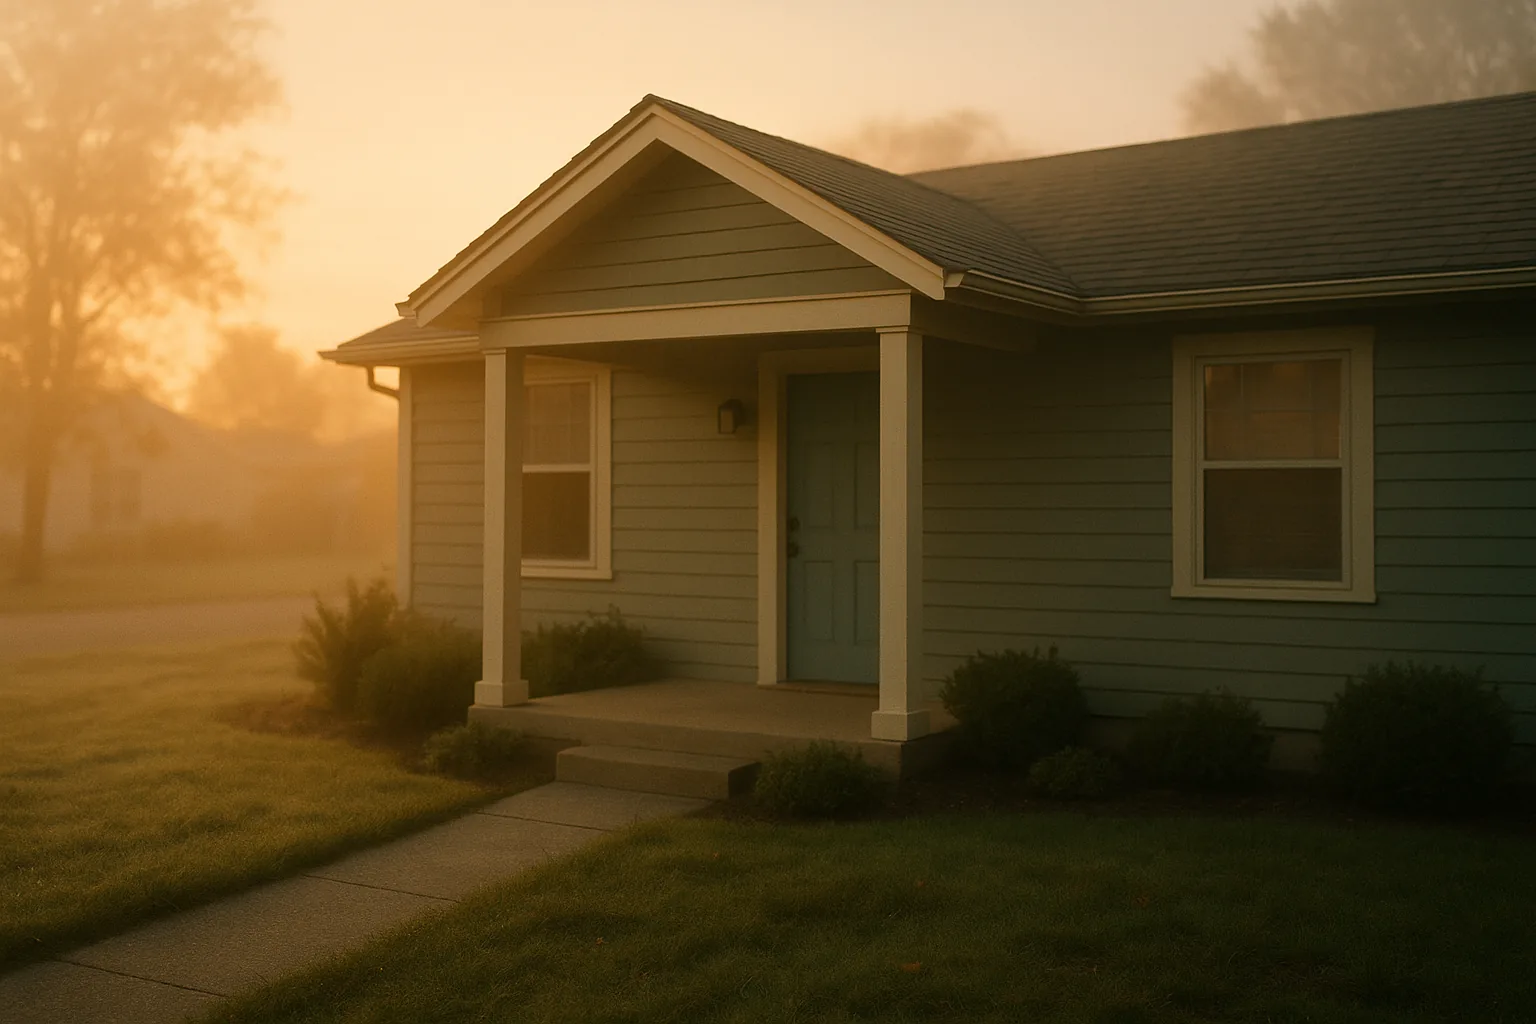
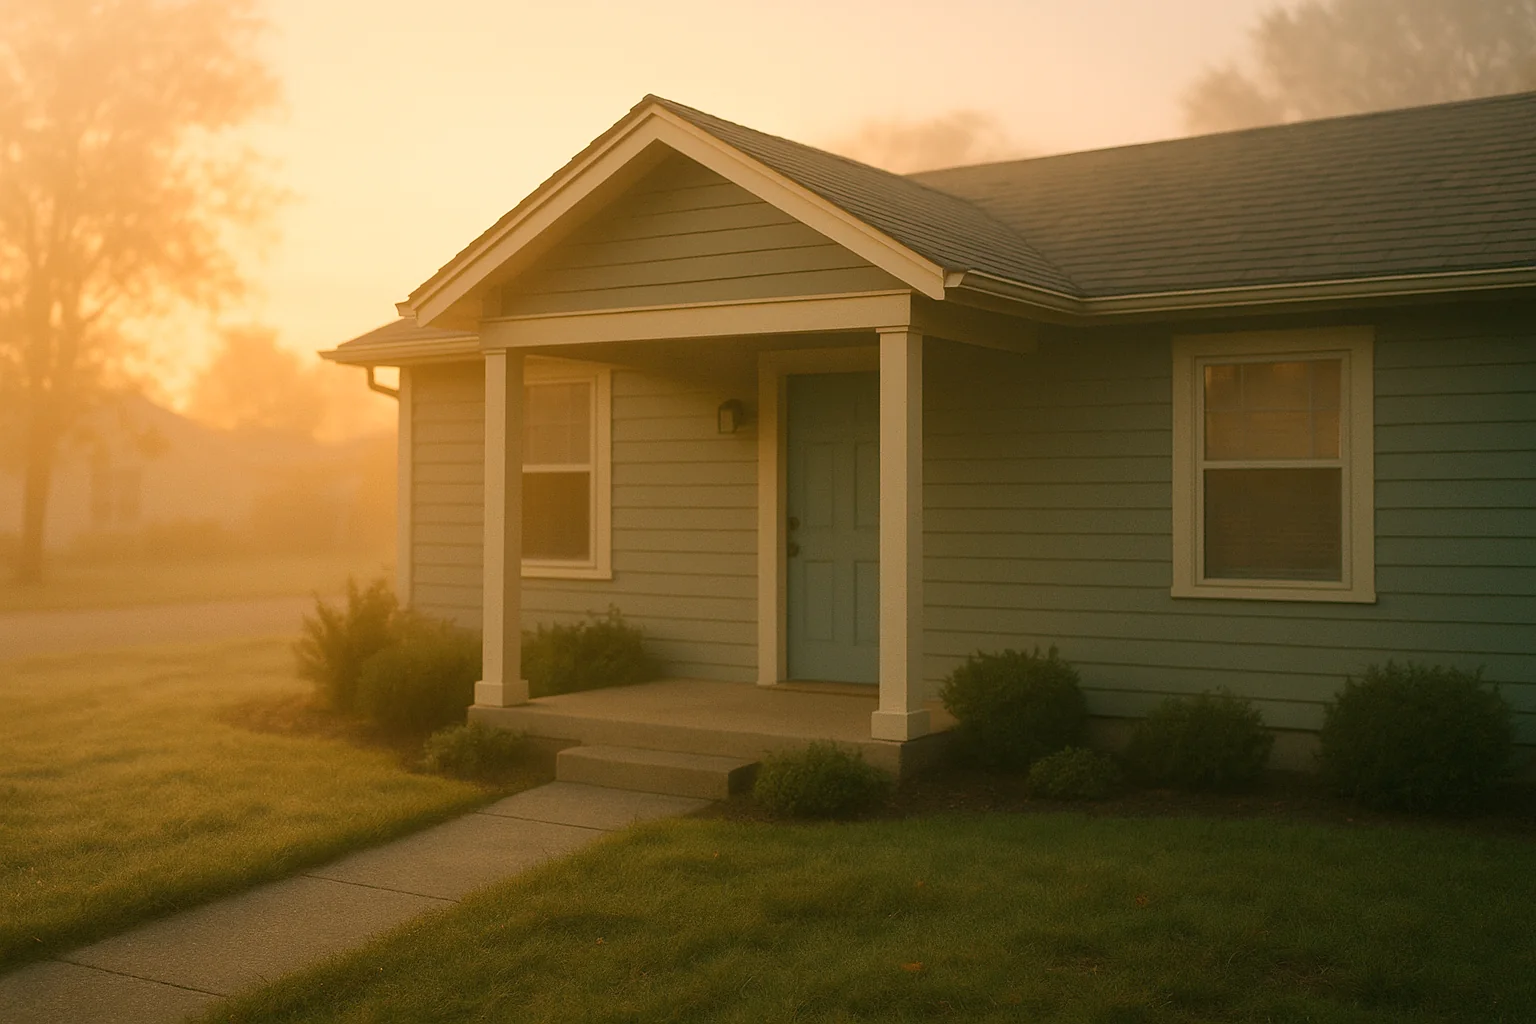
Single theme, warmer hero, verified contrast
Removed the light/dark toggle and all theming machinery. One design, the
original dark photographic hero over cream sections.

Hero lifted so it reads warm rather than gloomy: gamma lift on the source
photograph to open the shadows, softened scrim, stronger sunrise glow.

Legibility held while brightening, via a localized radial scrim behind the
copy and a backing chip on the badge. Measured against the rendered page:
  H1            4.69:1  (needs 3.0 large)
  Sub paragraph 6.69:1  (needs 4.5)
  Badge         6.75:1  (needs 4.5)

diff --git a/src/assets/site.css b/src/assets/site.css
@@ -36,9 +36,9 @@
   --ease: cubic-bezier(.22, 1, .36, 1);
 }
 
-/* ---- LIGHT (default) ---- */
-:root, [data-theme="light"] {
-  color-scheme: light;
+/* ---- Surface + text tokens ---- */
+:root {
+  color-scheme: only light;
 
   --bg:        #FAF6EA;   /* base section */
   --bg-2:      #FFFFFF;   /* alternate section */
@@ -56,28 +56,6 @@
   --eyebrow-c:  var(--sage);
   --shadow:     0 28px 56px -26px rgba(14,31,33,.30);
   --shadow-fig: 0 40px 80px -32px rgba(14,31,33,.42);
-}
-
-/* ---- DARK ---- */
-[data-theme="dark"] {
-  color-scheme: dark;
-
-  --bg:        #0E1F21;
-  --bg-2:      #12292B;
-  --bg-inv:    #0A1719;
-  --bg-inv-2:  #10262A;
-  --surface:   rgba(250,246,234,.05);
-  --surface-2: rgba(250,246,234,.05);
-
-  --tx:        rgba(250,246,234,.78);
-  --tx-2:      rgba(250,246,234,.55);
-  --tx-head:   #FAF6EA;
-  --line:      rgba(250,246,234,.13);
-
-  --accent:     var(--gold);
-  --eyebrow-c:  var(--sage-lt);
-  --shadow:     0 28px 56px -26px rgba(0,0,0,.55);
-  --shadow-fig: 0 40px 80px -32px rgba(0,0,0,.65);
 }
 
 /* Inverse bands: same treatment in both themes, so they simply re-declare
@@ -183,22 +161,6 @@ a { color: inherit; text-decoration: none; }
   box-shadow: 0 10px 30px -8px rgba(232, 177, 95, .55);
 }
 
-/* Theme toggle */
-.theme-toggle {
-  flex: 0 0 auto;
-  width: 38px; height: 38px; border-radius: 50%;
-  display: grid; place-items: center; cursor: pointer;
-  background: rgba(250,246,234,.08);
-  border: 1px solid rgba(250,246,234,.2);
-  color: rgba(250,246,234,.85);
-  transition: background .25s var(--ease), border-color .25s var(--ease), transform .25s var(--ease), color .25s var(--ease);
-}
-.theme-toggle:hover { background: rgba(250,246,234,.16); border-color: var(--gold); color: var(--gold); transform: translateY(-2px); }
-.theme-toggle svg { width: 18px; height: 18px; }
-.theme-toggle .i-sun { display: none; }
-.theme-toggle .i-moon { display: block; }
-[data-theme="dark"] .theme-toggle .i-sun { display: block; }
-[data-theme="dark"] .theme-toggle .i-moon { display: none; }
 
 .nav-toggle { display: none; background: none; border: 0; cursor: pointer; padding: 8px; }
 .nav-toggle span { display: block; width: 24px; height: 2px; background: var(--bone); margin: 5px 0; transition: .3s var(--ease); }
@@ -217,31 +179,40 @@ a { color: inherit; text-decoration: none; }
 .hero-photo {
   position: absolute; inset: 0; z-index: -3;
   background: url('/assets/images/photos/hero-home.webp') center 40% / cover no-repeat;
-  opacity: .9; transform: scale(1.06);
+  opacity: 1; transform: scale(1.06);
   animation: heroDrift 26s ease-in-out infinite alternate;
 }
 @keyframes heroDrift { from { transform: scale(1.06) translate3d(0,0,0); } to { transform: scale(1.13) translate3d(-1.5%, -1%, 0); } }
 .hero-scrim {
   position: absolute; inset: 0; z-index: -2;
   background:
-    linear-gradient(180deg, rgba(14,31,33,.86) 0%, rgba(14,31,33,.30) 24%, rgba(14,31,33,.14) 56%, rgba(14,31,33,.70) 88%, var(--ink) 100%),
-    linear-gradient(100deg, rgba(14,31,33,.94) 0%, rgba(14,31,33,.80) 28%, rgba(14,31,33,.30) 58%, rgba(14,31,33,.02) 82%, rgba(14,31,33,0) 100%);
+    linear-gradient(180deg, rgba(14,31,33,.74) 0%, rgba(14,31,33,.18) 26%, rgba(14,31,33,.06) 55%, rgba(14,31,33,.55) 86%, var(--ink) 100%),
+    linear-gradient(100deg, rgba(14,31,33,.92) 0%, rgba(14,31,33,.78) 30%, rgba(14,31,33,.34) 58%, rgba(14,31,33,.04) 80%, rgba(14,31,33,0) 92%);
 }
 .hero-sun {
   position: absolute; z-index: -1; left: 50%; bottom: 4%;
   width: min(1500px, 145vw); aspect-ratio: 1; transform: translateX(-50%);
   background: radial-gradient(circle at 50% 78%,
-    rgba(247,206,140,.34) 0%, rgba(232,177,95,.22) 18%,
-    rgba(232,177,95,.08) 34%, transparent 58%);
+    rgba(247,206,140,.50) 0%, rgba(232,177,95,.32) 18%,
+    rgba(232,177,95,.13) 36%, transparent 62%);
   animation: sunBreathe 11s ease-in-out infinite; pointer-events: none;
 }
 @keyframes sunBreathe { 0%,100% { opacity: .82; transform: translateX(-50%) scale(1); } 50% { opacity: 1; transform: translateX(-50%) scale(1.05); } }
 
 .hero-content { position: relative; z-index: 2; max-width: 860px; }
+/* Localized scrim behind the copy. Keeps text at AA without dimming the photo. */
+.hero-content::before {
+  content: ''; position: absolute; z-index: -1;
+  inset: -70px -140px -60px -120px;
+  background: radial-gradient(ellipse 62% 60% at 32% 50%,
+    rgba(14,31,33,.62) 0%, rgba(14,31,33,.42) 48%, rgba(14,31,33,0) 76%);
+  pointer-events: none;
+}
 .badge {
   display: inline-flex; align-items: center; gap: 10px;
-  background: rgba(232,177,95,.11); border: 1px solid rgba(232,177,95,.34);
-  color: var(--gold); font-size: 11.5px; font-weight: 600;
+  background: rgba(14,31,33,.58); border: 1px solid rgba(232,177,95,.42);
+  backdrop-filter: blur(6px); -webkit-backdrop-filter: blur(6px);
+  color: var(--gold-hot); font-size: 11.5px; font-weight: 600;
   letter-spacing: .16em; text-transform: uppercase;
   padding: 8px 18px; border-radius: 100px; margin-bottom: 34px;
 }
@@ -260,7 +231,7 @@ a { color: inherit; text-decoration: none; }
   background: linear-gradient(96deg, var(--gold-hot), var(--gold) 45%, var(--sage-lt));
   -webkit-background-clip: text; background-clip: text; color: transparent;
 }
-.hero-sub { font-size: clamp(17px, 1.9vw, 20.5px); color: rgba(250,246,234,.74); max-width: 620px; line-height: 1.72; margin-bottom: 44px; }
+.hero-sub { font-size: clamp(17px, 1.9vw, 20.5px); color: rgba(250,246,234,.92); max-width: 620px; line-height: 1.72; margin-bottom: 44px; }
 .hero-actions { display: flex; gap: 16px; flex-wrap: wrap; align-items: center; }
 
 /* Animated water. Uses a mask rather than a colored background image, so the
@@ -533,7 +504,7 @@ a { color: inherit; text-decoration: none; }
   .nav-inner { padding: 14px 22px; }
   .nav-logo img { height: 44px; }
   .nav-toggle { display: block; }
-  .nav-right { gap: 12px; }
+  .nav-right { gap: 14px; }
   .nav-links {
     position: fixed; inset: 74px 0 auto 0; flex-direction: column; align-items: stretch;
     gap: 0; background: rgba(14,31,33,.97); backdrop-filter: blur(16px);
@@ -551,66 +522,4 @@ a { color: inherit; text-decoration: none; }
   .footer-grid { grid-template-columns: 1fr; gap: 34px; }
   .prose { padding: 76px 22px 90px; }
   .page-head { padding: 150px 0 74px; }
-}
-
-
-/* ==========================================================================
-   LIGHT THEME OVERRIDES
-   In light mode the hero becomes genuinely light: the golden-hour photograph
-   carries the section and the scrim is cream rather than ink, so the house
-   reads bright instead of being crushed under a dark wash.
-   ========================================================================== */
-.logo-on-light { display: none; }
-[data-theme="light"] .logo-on-dark  { display: none; }
-[data-theme="light"] .logo-on-light { display: block; }
-
-[data-theme="light"] .hero { background: var(--bg); }
-[data-theme="light"] .hero-photo { opacity: 1; }
-[data-theme="light"] .hero-scrim {
-  background:
-    linear-gradient(180deg, rgba(250,246,234,.90) 0%, rgba(250,246,234,.34) 24%, rgba(250,246,234,.20) 54%, rgba(250,246,234,.74) 86%, var(--bg) 100%),
-    linear-gradient(100deg, rgba(250,246,234,.96) 0%, rgba(250,246,234,.86) 28%, rgba(250,246,234,.40) 58%, rgba(250,246,234,.06) 84%, rgba(250,246,234,0) 100%);
-}
-[data-theme="light"] .hero-sun {
-  background: radial-gradient(circle at 50% 78%,
-    rgba(247,206,140,.42) 0%, rgba(232,177,95,.24) 20%,
-    rgba(232,177,95,.10) 36%, transparent 60%);
-  mix-blend-mode: multiply;
-}
-[data-theme="light"] .hero h1 { color: var(--teal); }
-[data-theme="light"] .hero-sub { color: #46605F; }
-[data-theme="light"] .hero h1 em {
-  background: linear-gradient(96deg, var(--gold-deep), #C8913C 45%, #7C8A3F);
-  -webkit-background-clip: text; background-clip: text; color: transparent;
-}
-[data-theme="light"] .badge {
-  background: rgba(181,130,47,.10); border-color: rgba(181,130,47,.40); color: var(--gold-deep);
-}
-[data-theme="light"] .badge::before { background: var(--gold-deep); box-shadow: 0 0 0 0 rgba(181,130,47,.6); }
-[data-theme="light"] .btn-glass {
-  background: rgba(255,255,255,.62); color: var(--teal);
-  border-color: rgba(70,104,106,.26);
-}
-[data-theme="light"] .btn-glass:hover { background: rgba(255,255,255,.9); border-color: var(--teal); }
-
-/* Nav follows the theme so it never floats dark over a bright hero */
-[data-theme="light"] .site-nav.stuck {
-  background: rgba(250,246,234,.90);
-  border-bottom-color: var(--line);
-}
-[data-theme="light"] .nav-links a { color: #40595B; }
-[data-theme="light"] .nav-links a:hover { color: var(--teal); }
-[data-theme="light"] .theme-toggle {
-  background: rgba(70,104,106,.08); border-color: rgba(70,104,106,.24); color: var(--teal);
-}
-[data-theme="light"] .theme-toggle:hover { background: rgba(70,104,106,.14); border-color: var(--gold-deep); color: var(--gold-deep); }
-[data-theme="light"] .nav-toggle span { background: var(--teal); }
-[data-theme="light"] .figure-tag { background: rgba(255,255,255,.95); }
-
-@media (max-width: 820px) {
-  [data-theme="light"] .nav-links {
-    background: rgba(250,246,234,.98);
-    border-bottom-color: var(--line);
-  }
-  [data-theme="light"] .nav-links a { border-bottom-color: var(--line); }
 }

diff --git a/src/assets/site.js b/src/assets/site.js
@@ -6,36 +6,6 @@
 
   var reduced = window.matchMedia('(prefers-reduced-motion: reduce)').matches;
 
-  /* ---- Theme toggle ---- */
-  var root = document.documentElement;
-  var themeBtn = document.getElementById('theme-toggle');
-  var meta = document.querySelector('meta[name="theme-color"]');
-
-  function applyTheme(t) {
-    root.setAttribute('data-theme', t);
-    if (meta) meta.setAttribute('content', t === 'dark' ? '#0E1F21' : '#FAF6EA');
-    if (themeBtn) themeBtn.setAttribute('aria-pressed', t === 'dark' ? 'true' : 'false');
-  }
-  applyTheme(root.getAttribute('data-theme') || 'light');
-
-  if (themeBtn) {
-    themeBtn.addEventListener('click', function () {
-      var next = root.getAttribute('data-theme') === 'dark' ? 'light' : 'dark';
-      applyTheme(next);
-      try { localStorage.setItem('owc-theme', next); } catch (e) {}
-    });
-  }
-
-  // Follow the OS only while the visitor has not made an explicit choice.
-  var mq = window.matchMedia('(prefers-color-scheme: dark)');
-  var onScheme = function (e) {
-    var saved = null;
-    try { saved = localStorage.getItem('owc-theme'); } catch (err) {}
-    if (!saved) applyTheme(e.matches ? 'dark' : 'light');
-  };
-  if (mq.addEventListener) mq.addEventListener('change', onScheme);
-  else if (mq.addListener) mq.addListener(onScheme);
-
   /* ---- Sticky nav background ---- */
   var nav = document.querySelector('.site-nav');
   if (nav) {
